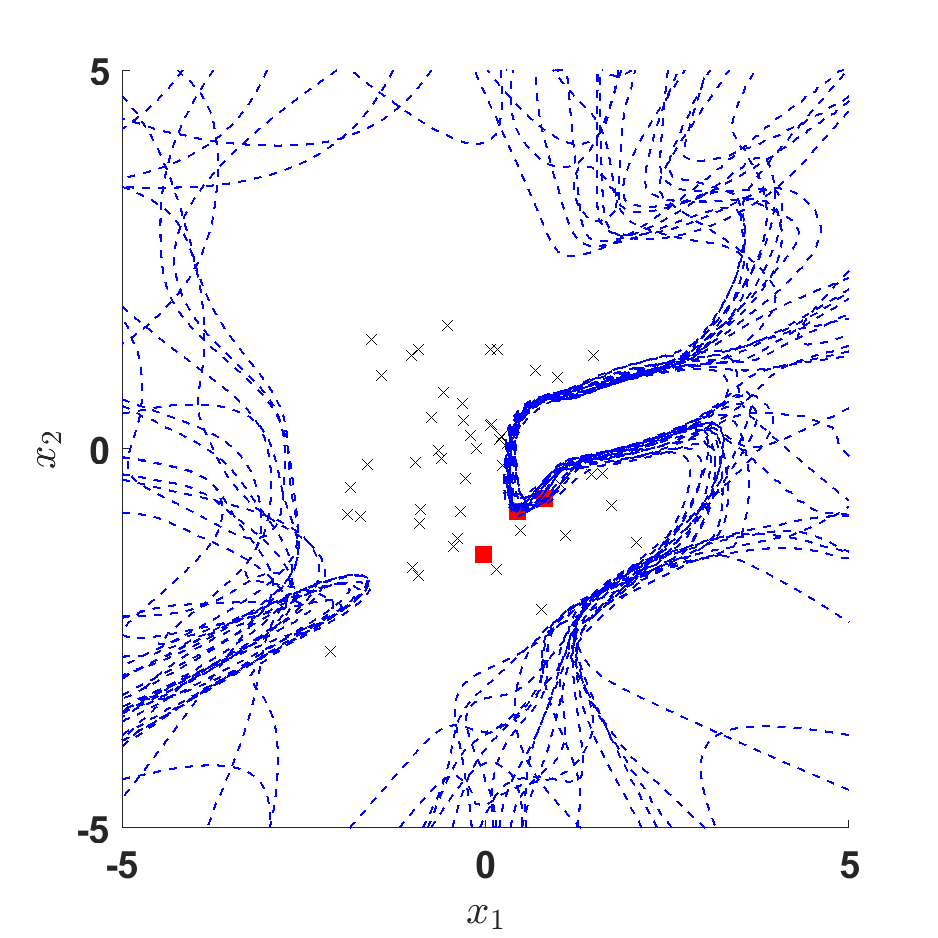
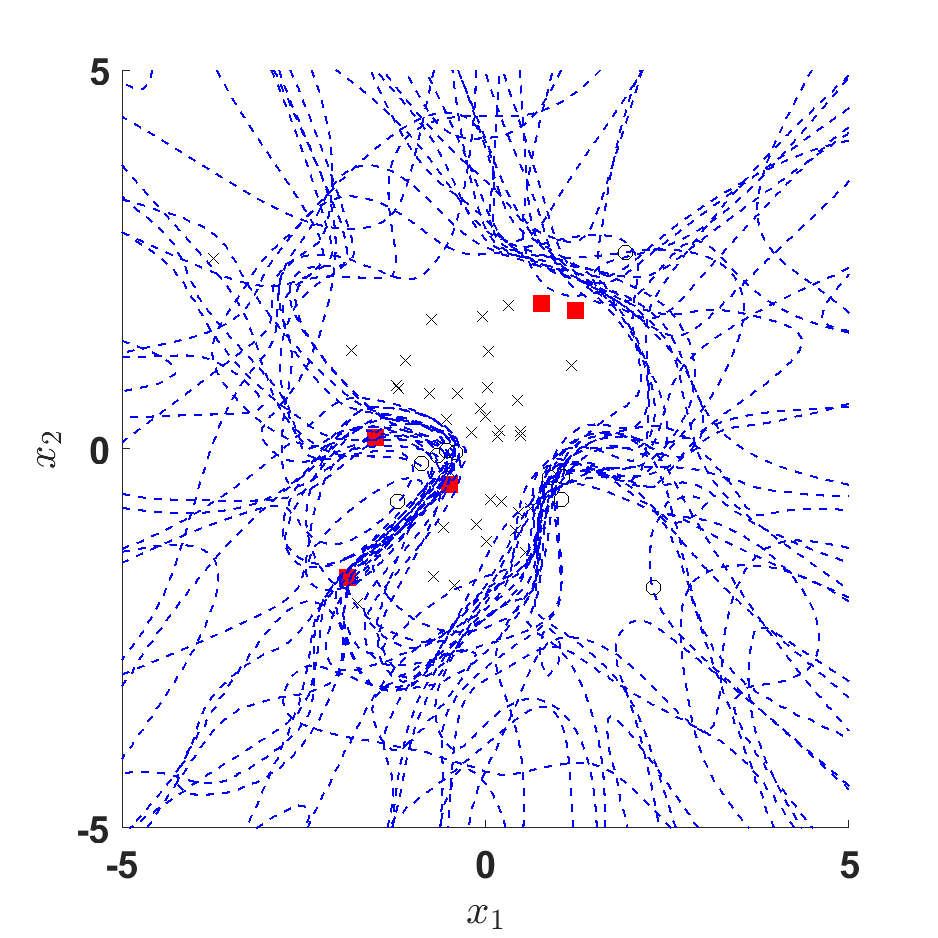
simulation new

diff --git a/matlab/semi_supervised_learning/simulations_new.m b/matlab/semi_supervised_learning/simulations_new.m
@@ -1,0 +1,99 @@
+figure('position', [100, 100, 600, 600]);
+hold on;
+scatter(X_testing((y_testing==0),1), X_testing((y_testing==0),2), 50, 'ok');
+scatter(X_testing((y_testing==1),1), X_testing((y_testing==1),2), 50, 'xk');
+scatter(X_testing(find(y_testing - y_predict), 1), X_testing(find(y_testing - y_predict), 2), 100, 'square', 'r', 'filled'); 
+
+for num_sim = 1:20
+% % Approximate p(x) with VB-GMM
+% N_k = sum(model_x.R);
+% 
+% this_mu = (model_x.m)';
+% this_cov = zeros(D, D, K);
+% this_W = model_x.W;
+% for k = 1:K
+%     this_W(2, 1, k) = this_W(1, 2, k);
+%     this_cov(:, :, k) = (model_x.beta(k)*this_W(:, :, k))^-1;
+%     [~, isspd] = chol(this_cov(:, :, k));
+%     multiplier = 1;
+%     while isspd
+%         this_cov(:, :, k) = this_cov(:, :, k) + (0.01*10^(multiplier))*eye(D, D);
+%         multiplier = multiplier + 1;
+%         [~, isspd] = chol(this_cov(:, :, k));
+%     end 
+% end
+% this_mu_hat = mvnrnd(this_mu, this_cov)';
+% this_COV_hat = zeros(D, D, K);
+% for k = 1:K
+%     r_nk = model_x.R(:, k);
+%     this_COV_hat(:, :, k) = (1/N_k(k))*((sqrt(r_nk').*(X(1:N_labeled+N_unlabeled, :)' - this_mu_hat(:, k)))*(sqrt(r_nk').*(X(1:N_labeled+N_unlabeled, :)' - this_mu_hat(:, k)))');
+% end
+% this_pi_hat = (model_x.alpha/sum(model_x.alpha));
+% 
+% this_p_x = gmdistribution(this_mu_hat', this_COV_hat, this_pi_hat);
+
+% For p(x | y = 0)
+N_k = sum(model_xy_0.R);
+
+this_mu = (model_xy_0.m)';
+this_cov = zeros(D, D, K);
+this_W = model_xy_0.W;
+for k = 1:K
+    this_W(2, 1, k) = this_W(1, 2, k);
+    this_cov(:, :, k) = (model_xy_0.beta(k)*this_W(:, :, k))^-1;
+    [~, isspd] = chol(this_cov(:, :, k));
+    multiplier = 1;
+    while isspd
+        this_cov(:, :, k) = this_cov(:, :, k) + (0.01*10^(multiplier))*eye(D, D);
+        multiplier = multiplier + 1;
+        [~, isspd] = chol(this_cov(:, :, k));
+    end 
+end
+this_mu_hat = mvnrnd(this_mu, this_cov)';
+this_COV_hat = zeros(D, D, K);
+for k = 1:K
+    r_nk = model_xy_0.R(:, k);
+    this_COV_hat(:, :, k) = (1/N_k(k))*((sqrt(r_nk').*(X_0' - this_mu_hat(:, k)))*(sqrt(r_nk').*(X_0' - this_mu_hat(:, k)))');
+end
+this_pi_hat = (model_xy_0.alpha/sum(model_xy_0.alpha));
+
+this_p_xy0 = gmdistribution(this_mu_hat', this_COV_hat, this_pi_hat);
+
+% For p(x | y = 1)
+N_k = sum(model_xy_1.R);
+
+this_mu = (model_xy_1.m)';
+this_cov = zeros(D, D, K);
+this_W = model_xy_1.W;
+for k = 1:K
+    this_W(2, 1, k) = this_W(1, 2, k);
+    this_cov(:, :, k) = (model_xy_1.beta(k)*this_W(:, :, k))^-1;
+    [~, isspd] = chol(this_cov(:, :, k));
+    multiplier = 1;
+    while isspd
+        this_cov(:, :, k) = this_cov(:, :, k) + (0.01*10^(multiplier))*eye(D, D);
+        multiplier = multiplier + 1;
+        [~, isspd] = chol(this_cov(:, :, k));
+    end 
+end
+this_mu_hat = mvnrnd(this_mu, this_cov)';
+this_COV_hat = zeros(D, D, K);
+for k = 1:K
+    r_nk = model_xy_1.R(:, k);
+    this_COV_hat(:, :, k) = (1/N_k(k))*((sqrt(r_nk').*(X_1' - this_mu_hat(:, k)))*(sqrt(r_nk').*(X_1' - this_mu_hat(:, k)))');
+end
+this_pi_hat = (model_xy_1.alpha/sum(model_xy_1.alpha));
+
+this_p_xy1 = gmdistribution(this_mu_hat', this_COV_hat, this_pi_hat);
+
+fcontour(@(x1, x2)(pdf(this_p_xy1, [x1, x2])*p_y_1 - pdf(this_p_xy0, [x1, x2])*p_y_0),...
+    [-5 5 -5 5], '--b', 'LevelList', [0], 'LineWidth', 1);
+
+end
+
+xlim([-5 5]);
+ylim([-5 5]);
+xlabel('$x_1$', 'Interpreter', 'latex');
+ylabel('$x_2$', 'Interpreter', 'latex');
+set(gca, 'FontSize', 18, 'FontWeight', 'bold')
+saveas(gcf, fullfile(fpath, 'simulation.png'));

diff --git a/matlab/semi_supervised_learning/main_new.m b/matlab/semi_supervised_learning/main_new.m
@@ -234,4 +234,4 @@ set(gca, 'FontSize', 18, 'FontWeight', 'bold')
 saveas(gcf, fullfile(fpath, 'scatter_probability_error.png'));
 
 %% Monte Carlo Simulations
-run simulations.m
+run simulations_new.m
